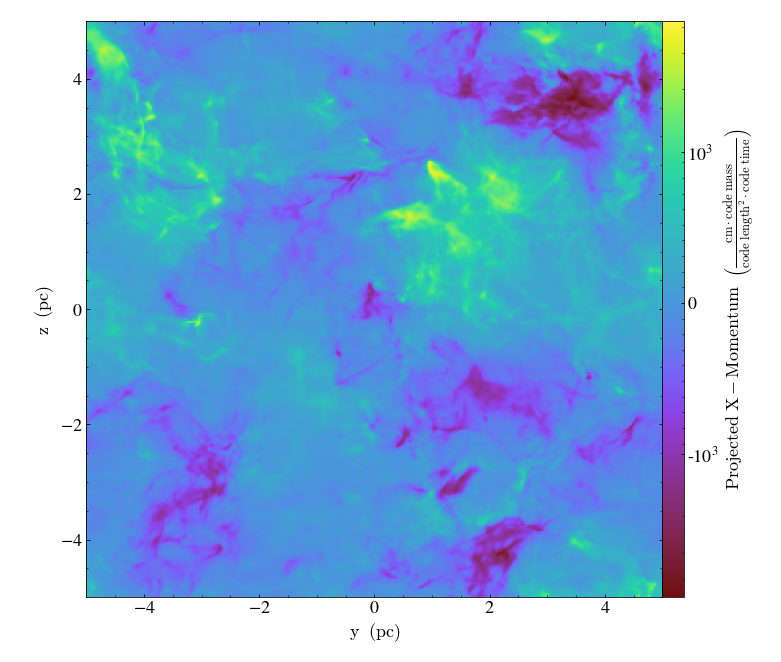
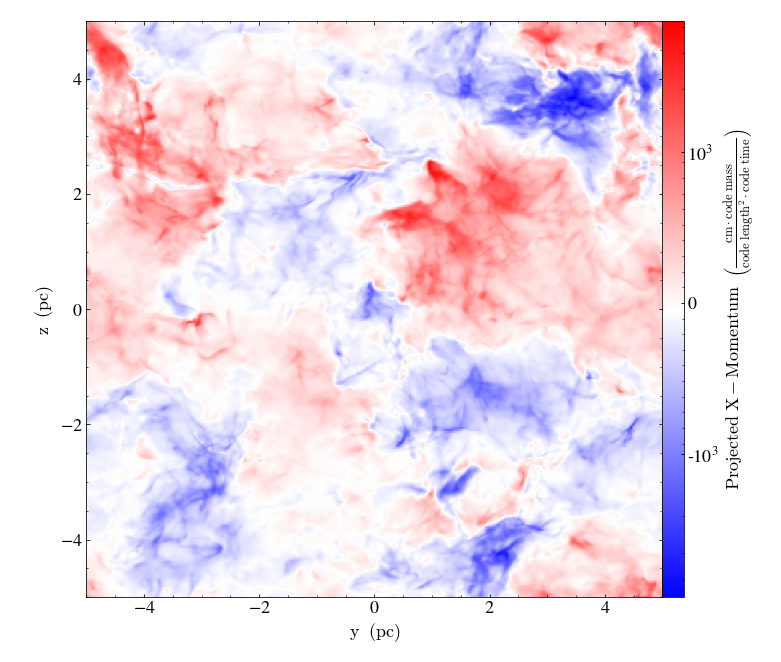
Jan 17 PM Updates

diff --git a/Assignment_1/Basic_Plots.py b/Assignment_1/Basic_Plots.py
@@ -44,8 +44,13 @@ plot_contour.save("x_slice_plot_density_contours.png")
 #print(sorted(ds.field_list))
 print(sorted(ds.derived_field_list))
 yt.ProjectionPlot(ds, "x", "density").save("x_mass_density_plot.png")
-yt.ProjectionPlot(ds, "x", "X-momentum").save("x_momentum_density_plot.png")
 '''
+'''
+plot_x_momentum_density = yt.ProjectionPlot(ds, "x", "X-momentum")
+plot_x_momentum_density.set_cmap(field="X-momentum", cmap='bwr')
+plot_x_momentum_density.save("x_momentum_density_plot.png")
+'''
+
 
 #Creating 1D Probability Density functions
 # Create a data object that represents the whole box.
@@ -71,16 +76,21 @@ plot_2D_PDF.save("2D_PDF_Density_RMS_Speed.png")
 '''
 
 #Plotting 1D PDF
-
+'''
 plot_1D_PDF_Density = yt.ProfilePlot(ad, "density", "ones", weight_field=None)
 plot_1D_PDF_Density.save("1D_PDF_Density.png")
 plot_1D_PDF_Energy = yt.ProfilePlot(ad, "kinetic_energy", "ones", weight_field=None)
 plot_1D_PDF_Energy.save("1D_PDF_Energy.png")
-
+'''
 #Plotting Mean Velocity Projection Weighted
 '''
-plot_weighted_projection_z = yt.ProjectionPlot(ds,"z","rms_speed",weight_field="cell_mass")
-plot_weighted_projection_z.save("2D_Projection_Weighted_RMS_Speed_z.png")
+plot_weighted_projection_z = yt.ProjectionPlot(ds,"z","velocity_z",weight_field="cell_mass")
+plot_weighted_projection_z.set_cmap(field="velocity_z", cmap='bwr')
+plot_weighted_projection_z.save("2D_Projection_Weighted_RMS_Velocity_z.png")
+'''
+
+#In x and y directions
+'''
 plot_weighted_projection_x = yt.ProjectionPlot(ds,"x","rms_speed",weight_field="cell_mass")
 plot_weighted_projection_x.save("2D_Projection_Weighted_RMS_Speed_x.png")
 plot_weighted_projection_y = yt.ProjectionPlot(ds,"y","rms_speed",weight_field="cell_mass")
@@ -102,3 +112,6 @@ plot_density_dusk.set_cmap(field="density", cmap='dusk')
 plot_density_dusk.save("plot_density_dusk.png")
 '''
 
+
+#Projection Plots of Angular Momentum
+yt.ProjectionPlot(ds, "z", "angular_momentum_x").save("z_projected_x_angular_momentum.png")
